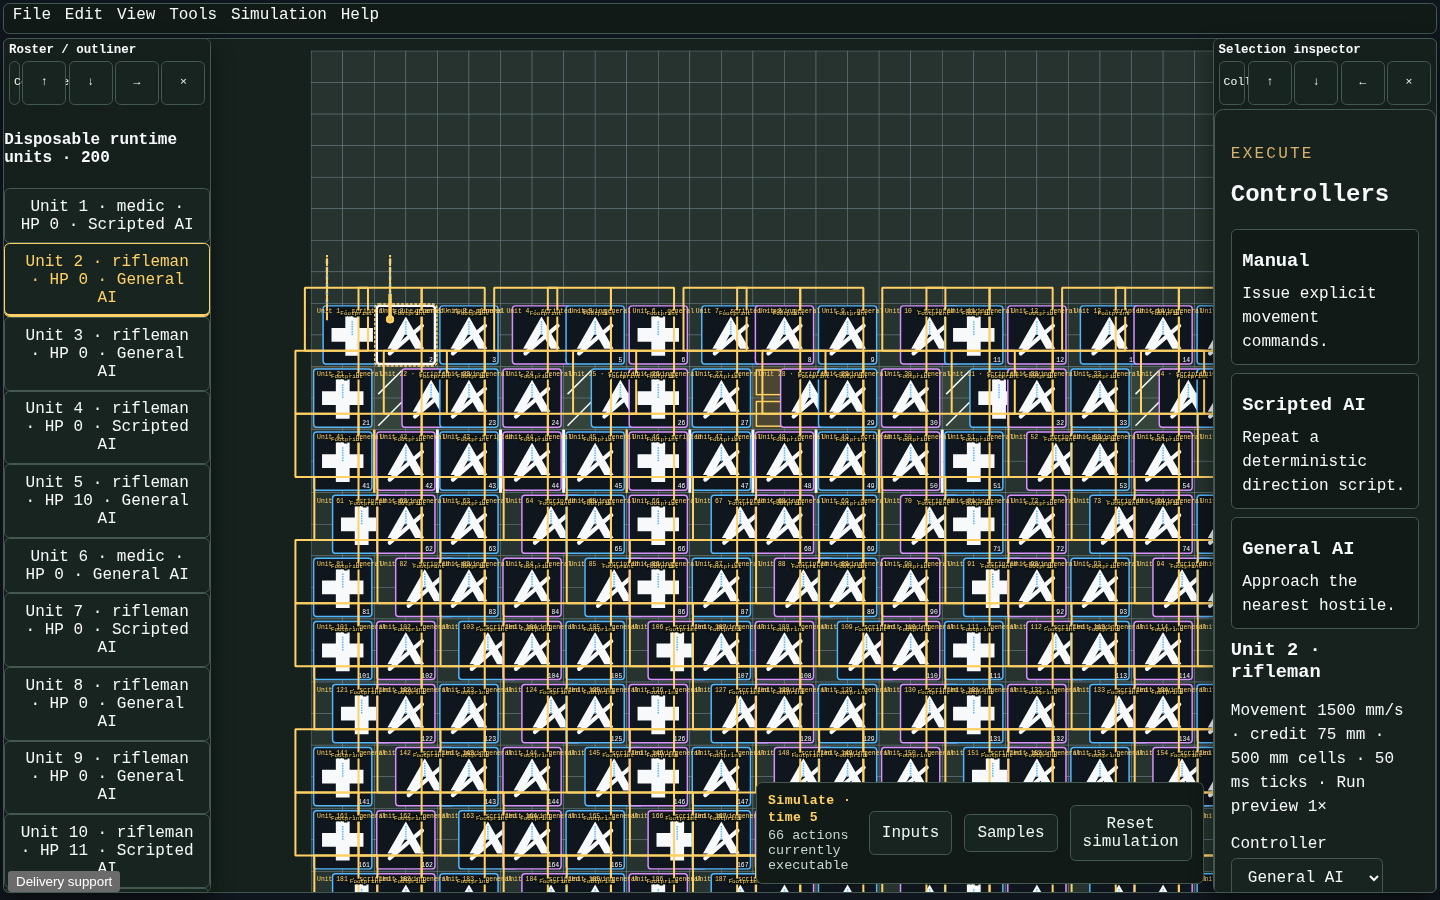
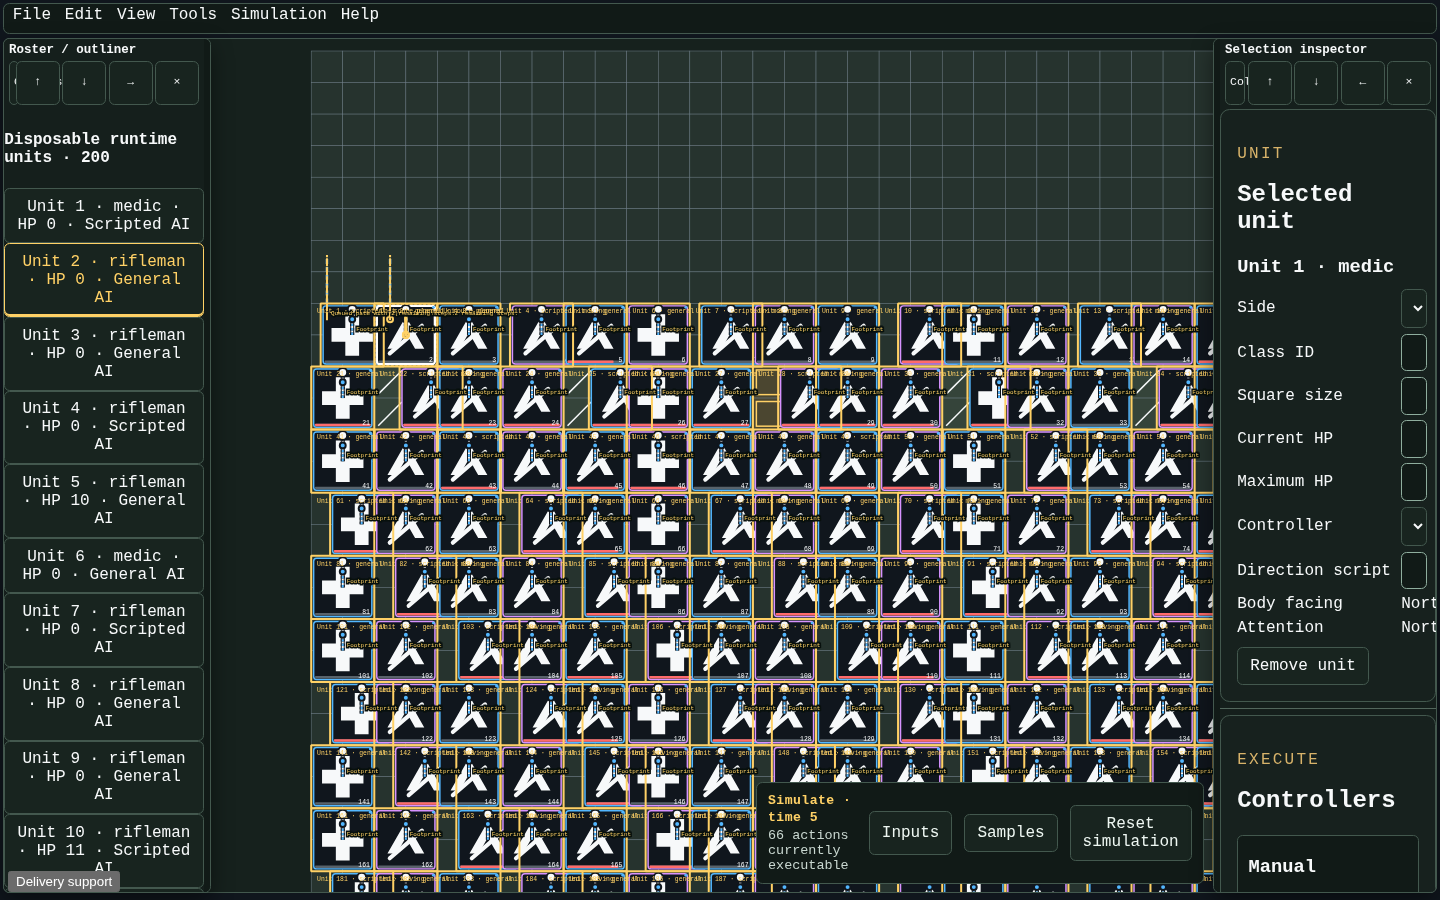
Refresh tactical production review

diff --git a/work/ci-reliability-efficiency/readiness/debug-loop.log.md b/work/ci-reliability-efficiency/readiness/debug-loop.log.md
@@ -15,3 +15,11 @@
 - Diagnosis: the preceding protected run measured 91.576/96.387 ms, and an unchanged exact local rerun measured 52.421/54.889 ms. Structural counters were identical in all runs, so the isolated breach is runner contention rather than a semantic or algorithmic regression.
 - Patch: none; product timing budgets and assertions remain unchanged.
 - Verification: the exact local protected qualification advanced past the stress gate and stopped only when receipt generation correctly rejected the intentionally dirty review manifest. The complete wrapper is rerun after committing the generated manifest so its source/tree receipt can be valid.
+
+## Iteration 3 — 2026-08-22
+
+- Failing command: `./scripts/run-protected-stage.sh core artifacts/qualification/stages/core.json -- ./scripts/qualify-production.sh --protected`
+- Failure: after M9 passed, `scripts/test-tactical-visual-review.mjs` reported `review is not bound to the production bundle`.
+- Diagnosis: the tactical visual review is a downstream production capture whose manifest still named the prior bundle, stylesheet, and M9 baseline. Its retained 100/200-unit images and structural counts also preceded the current canonical 4×4 unit footprint.
+- Patch: regenerated the review through `npm run review:tactical-visual`, refreshing the maintained-simulation capture, 100/200-unit density captures, manifest bindings, structural counts, and telemetry.
+- Verification: visually inspected all three captures; `node scripts/test-tactical-visual-review.mjs` reproduced both independent captures byte-for-byte and passed the 100/150 ms input-to-paint plus 17.67 ms frame budgets; `npm run test:tactical-visual-review-mutations` rejected all stylesheet, lifecycle, workload, faction, simultaneous route/attack, one-route, font, timing, and reproduction mutations.
